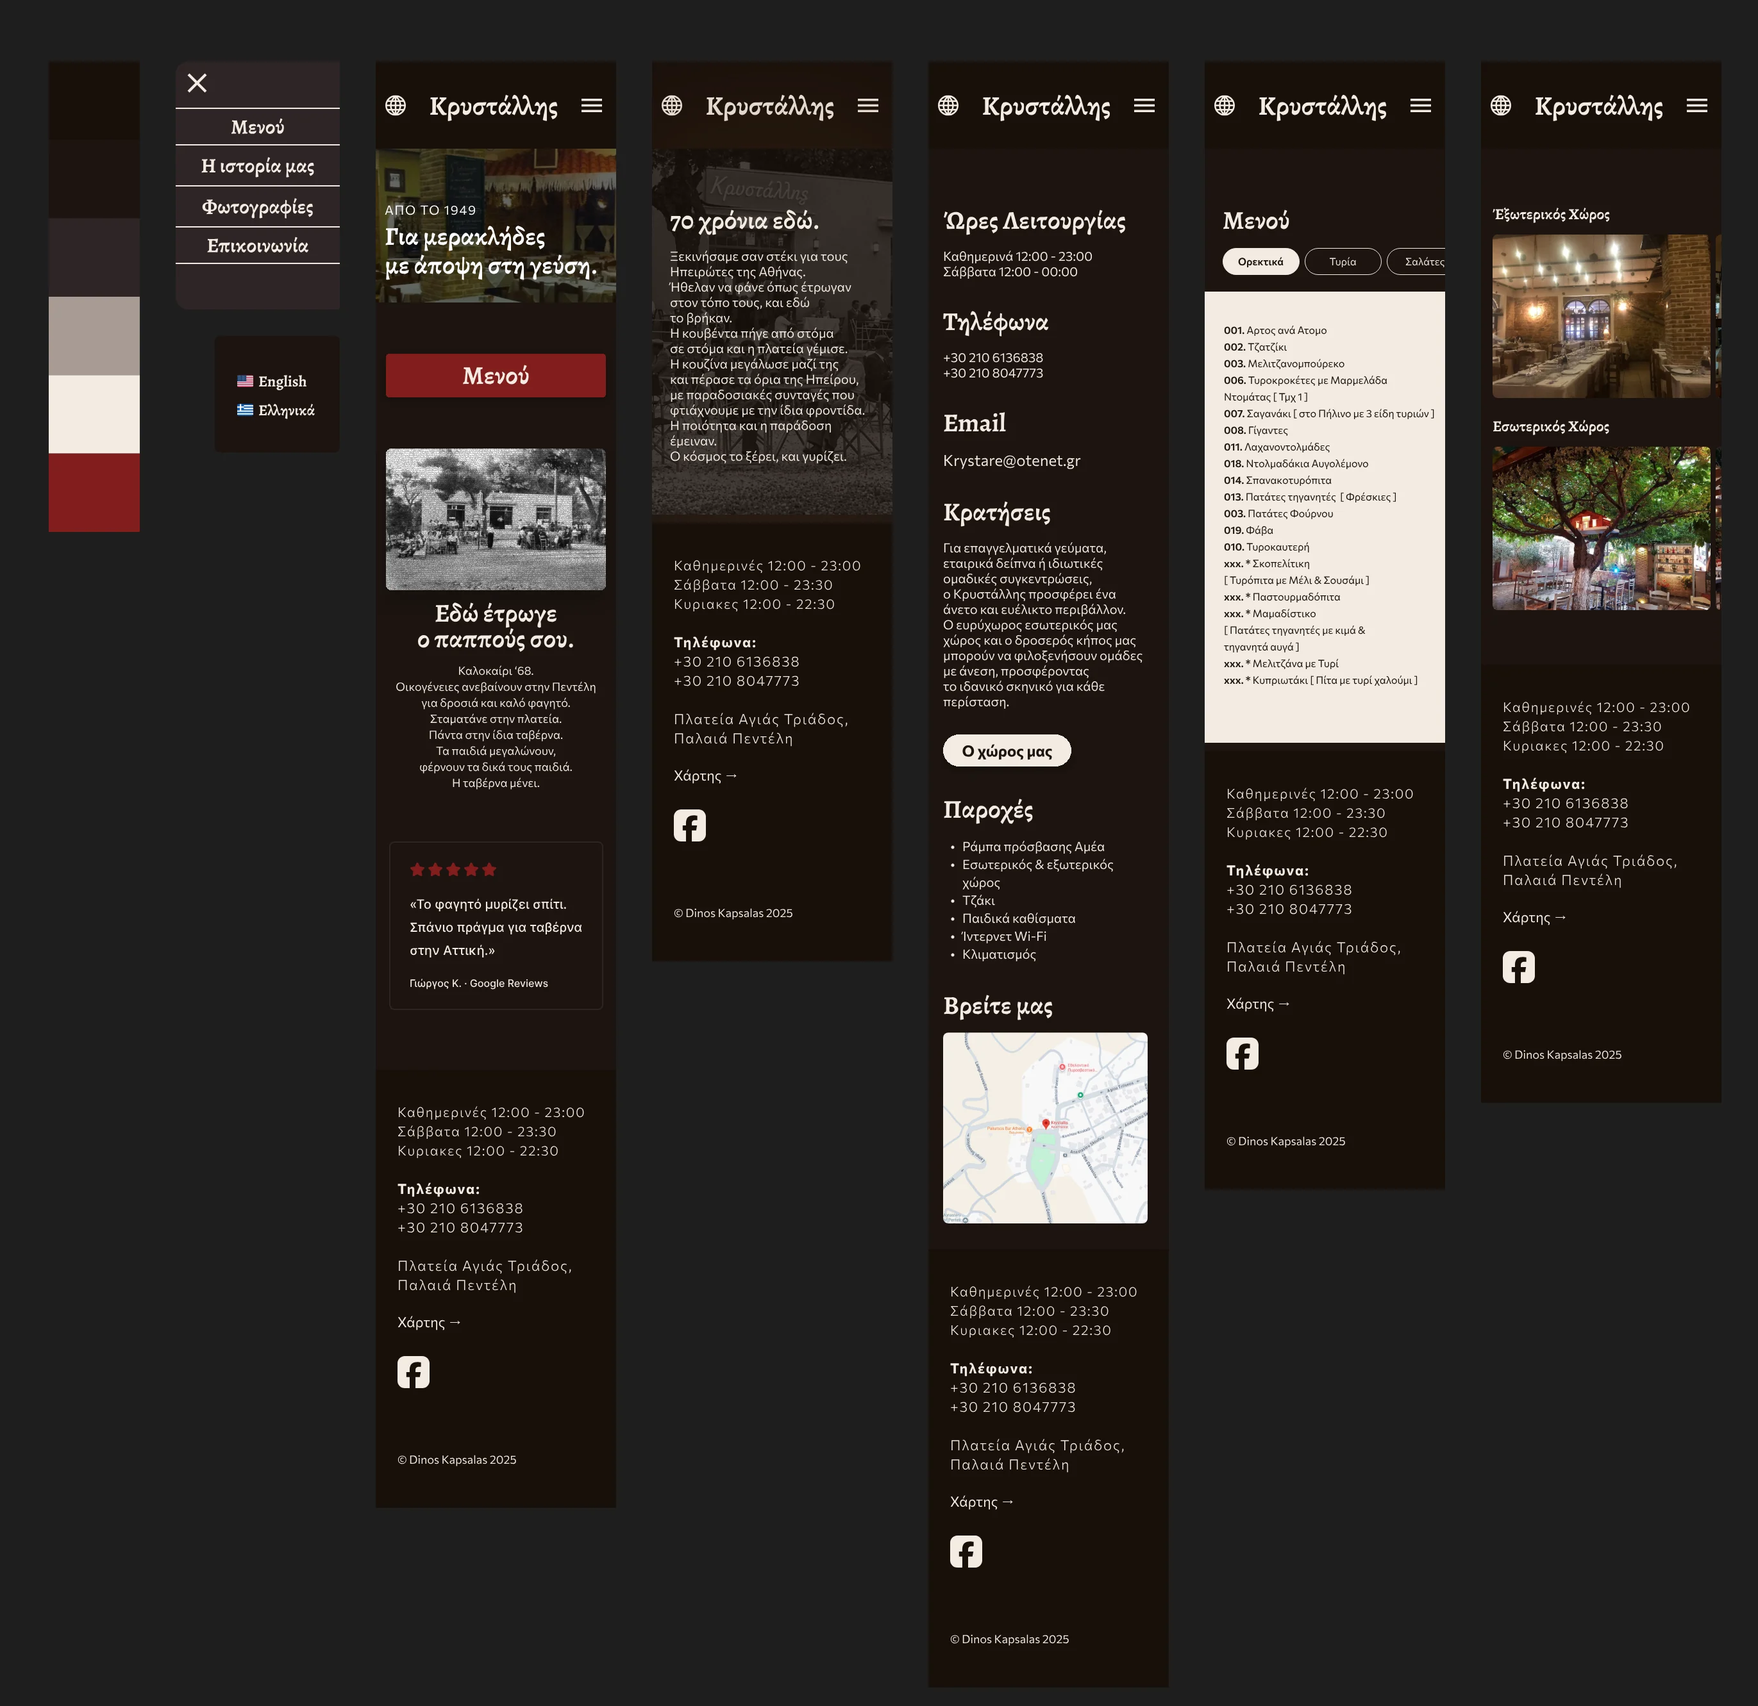
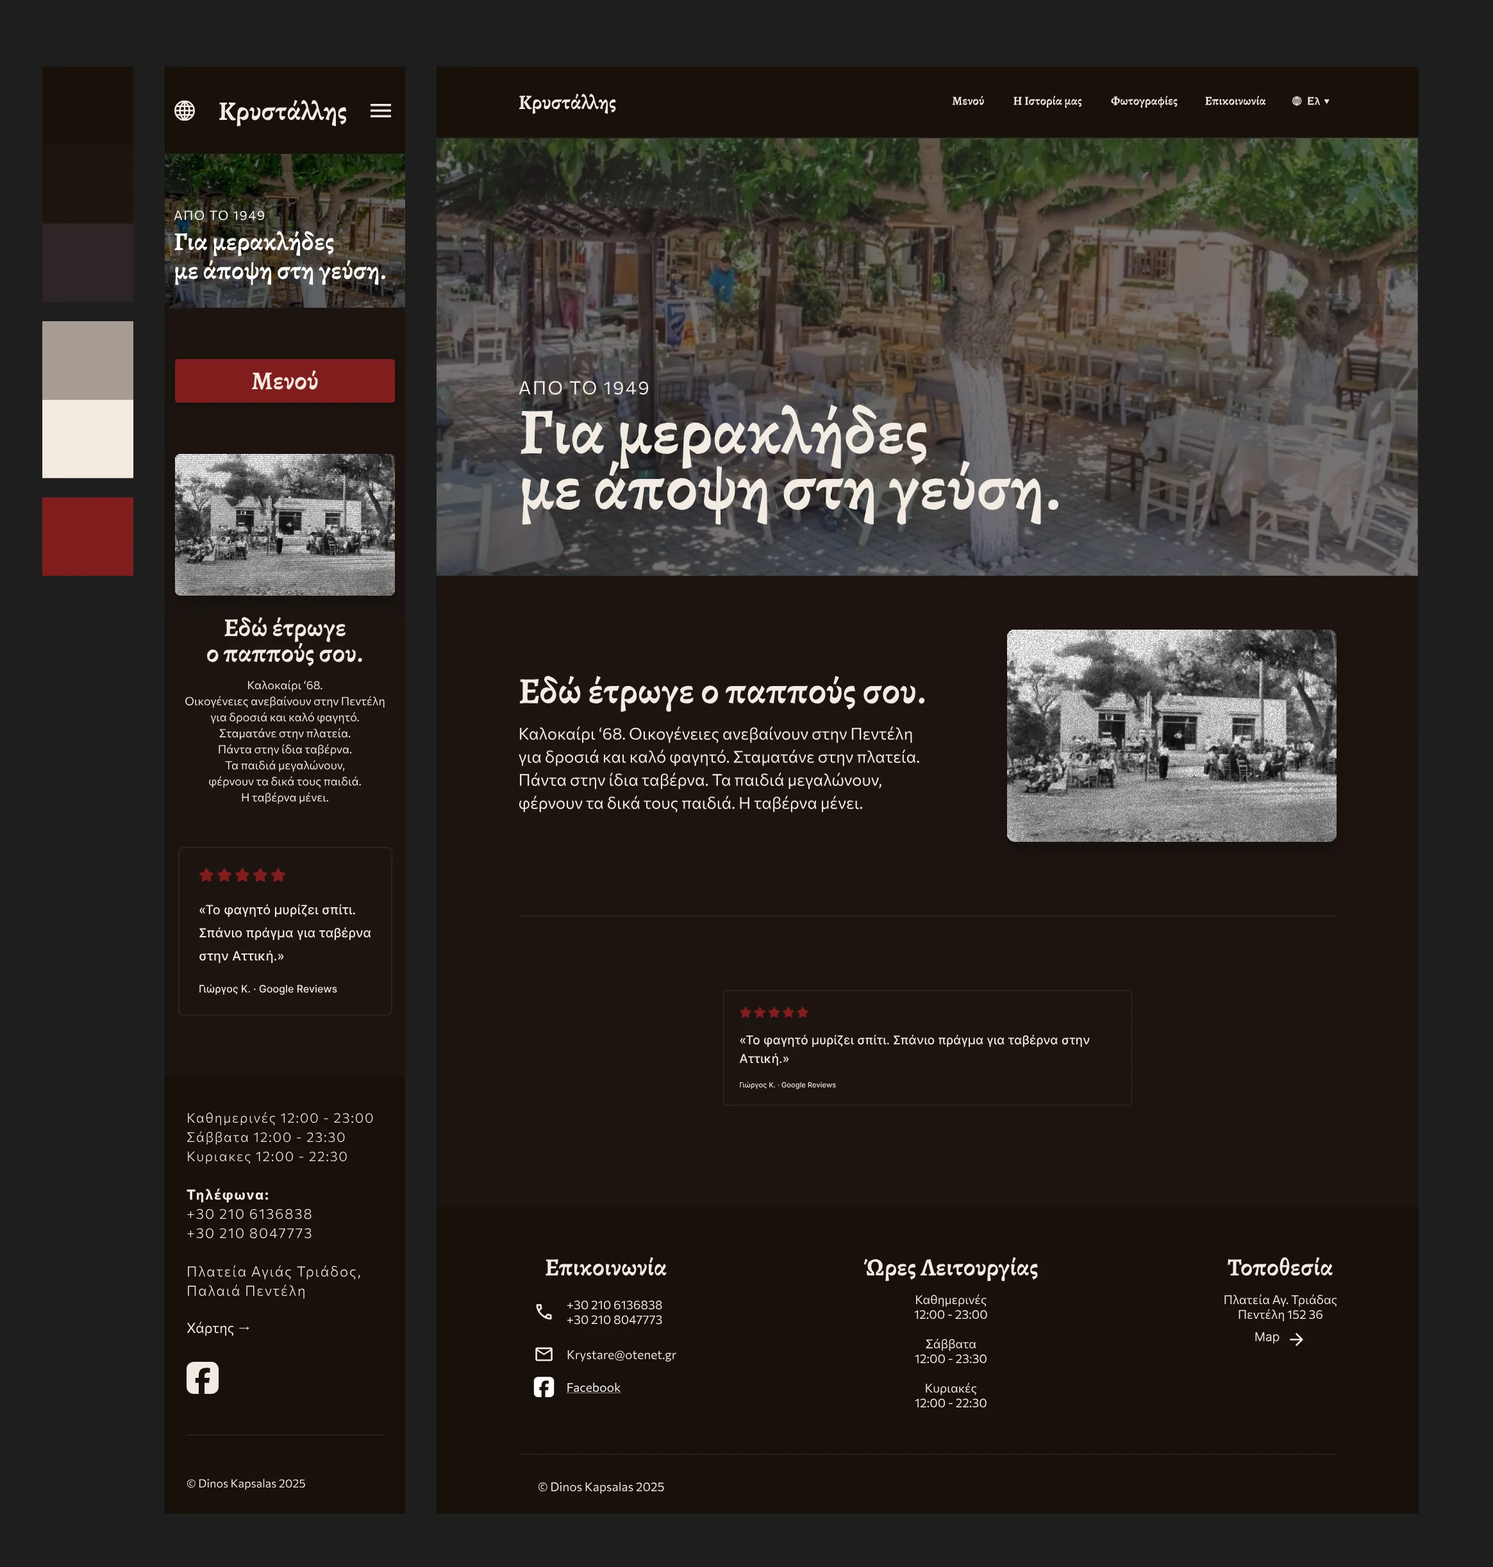
v11.1: new Identity image (palette, mobile and desktop homepage)
Claude-Session: https://claude.ai/code/session_01Um4QMnvbCQBiYrwR49UHki

diff --git a/projects/krystallis/index.html b/projects/krystallis/index.html
@@ -433,7 +433,7 @@ main{background:var(--surface)}
     <section class="cs__block"><div class="cs__text"><div class="cs__lead"><h2>Problem</h2><p class="cs__punch"><span class="s">The tavern kept its tradition.</span><span class="s">The website didn’t.</span></p></div><div class="cs__body"><p>Krystallis has served a traditional menu on Mt. Penteli for 77 years. Its website looked just as old, minus the charm.</p><p>The homepage was a photo gallery: slow to load, and only reachable by scrolling. Hours and contact details were split between the Contact page and a footer on every page, and that footer carried a gallery of six tiny archive thumbnails too. At that size nobody can see the photos, so they only add weight and push the real information out of view.</p><p>On mobile, the menu still wore the template’s default title, “Sidebar”, in English on a Greek site, in colors that failed contrast. The site was Greek only, so anyone who doesn’t read Greek couldn’t follow it or get in touch. And the menu? Nowhere.</p></div></div><figure class="cs__fig"><div class="cs__shot cs__scroll" tabindex="0" role="region" aria-label="Old and new screens, scroll sideways"><img class="w-old" src="01.webp" width="1600" height="844" alt="Old and new mobile site side by side"></div><p class="cs__hint">Swipe sideways to see all screens →</p></figure></section>
     <section class="cs__block"><div class="cs__text"><div class="cs__lead"><h2>Solution</h2><p class="cs__punch"><span class="s">Four pages.</span><span class="s">Everything else a scroll away.</span></p></div><div class="cs__body"><p>The site now has four pages: Menu, Our story, Gallery and Contact. The gallery got a page of its own, where photos can be big and don’t slow anything down. Hours, phones, address and map sit in every footer, and Contact holds the full details.</p></div></div><figure class="cs__fig cs__diagram"><div class="cs__scroll" tabindex="0" role="region" aria-label="Diagram, scroll sideways"><svg class="diagram" viewBox="0 0 960 822" role="img" aria-label="Sitemap: homepage with four pages, Menu, Our story, Gallery and Contact, plus a header and footer on every page" font-family="DM Sans,system-ui,sans-serif"><defs><marker id="ah" viewBox="0 0 10 10" refX="9" refY="5" markerWidth="8" markerHeight="8" orient="auto-start-reverse"><path d="M0 0L10 5L0 10z" fill="#253027"/></marker></defs><rect x="20" y="20" width="920" height="52" rx="12" fill="none" stroke="#5a6b5c" stroke-width="1.5" stroke-dasharray="6 5"/><text x="40" y="52" font-size="15" font-weight="700" fill="#253027">On every page: header</text><text x="920" y="52" text-anchor="end" font-size="14" fill="#5a6b5c">Navigation · Greek / English switch</text><rect x="380" y="104" width="200" height="48" rx="24.0" fill="#8DEF86" stroke="none" stroke-width="1.5"/><text x="480.0" y="133.6" text-anchor="middle" font-size="16" font-weight="700" fill="#253027">Homepage</text><rect x="620" y="108" width="200" height="40" rx="10" fill="#ffffff" stroke="#5a6b5c" stroke-width="1.5" stroke-dasharray="5 4"/><text x="720.0" y="132.9" text-anchor="middle" font-size="14" font-weight="500" fill="#253027">Customer review</text><path d="M580 128H620" fill="none" stroke="#253027" stroke-width="1.5" stroke-dasharray="5 4"/><path d="M480 152V184" fill="none" stroke="#253027" stroke-width="1.5"/><path d="M135 184H810" fill="none" stroke="#253027" stroke-width="1.5"/><path d="M135 184V208" fill="none" stroke="#253027" stroke-width="1.5"/><rect x="35" y="208" width="200" height="48" rx="10" fill="#253027" stroke="none" stroke-width="1.5"/><text x="135.0" y="237.6" text-anchor="middle" font-size="16" font-weight="700" fill="#ffffff">Menu</text><path d="M360 184V208" fill="none" stroke="#253027" stroke-width="1.5"/><rect x="260" y="208" width="200" height="48" rx="10" fill="#253027" stroke="none" stroke-width="1.5"/><text x="360.0" y="237.6" text-anchor="middle" font-size="16" font-weight="700" fill="#ffffff">Our story</text><path d="M585 184V208" fill="none" stroke="#253027" stroke-width="1.5"/><rect x="485" y="208" width="200" height="48" rx="10" fill="#253027" stroke="none" stroke-width="1.5"/><text x="585.0" y="237.6" text-anchor="middle" font-size="16" font-weight="700" fill="#ffffff">Gallery</text><path d="M810 184V208" fill="none" stroke="#253027" stroke-width="1.5"/><rect x="710" y="208" width="200" height="48" rx="10" fill="#253027" stroke="none" stroke-width="1.5"/><text x="810.0" y="237.6" text-anchor="middle" font-size="16" font-weight="700" fill="#ffffff">Contact</text><rect x="55" y="280" width="180" height="38" rx="10" fill="#f4f8f4" stroke="#dde6dc" stroke-width="1.5"/><text x="145.0" y="303.9" text-anchor="middle" font-size="14" font-weight="500" fill="#253027">Starters &amp; salads</text><rect x="55" y="330" width="180" height="38" rx="10" fill="#f4f8f4" stroke="#dde6dc" stroke-width="1.5"/><text x="145.0" y="353.9" text-anchor="middle" font-size="14" font-weight="500" fill="#253027">Main dishes</text><rect x="55" y="380" width="180" height="38" rx="10" fill="#f4f8f4" stroke="#dde6dc" stroke-width="1.5"/><text x="145.0" y="403.9" text-anchor="middle" font-size="14" font-weight="500" fill="#253027">Beverages</text><rect x="55" y="430" width="180" height="38" rx="10" fill="#f4f8f4" stroke="#dde6dc" stroke-width="1.5"/><text x="145.0" y="453.9" text-anchor="middle" font-size="14" font-weight="500" fill="#253027">Desserts &amp; fruits</text><path d="M45 256V449" fill="none" stroke="#253027" stroke-width="1.5"/><path d="M45 299H55" fill="none" stroke="#253027" stroke-width="1.5"/><path d="M45 349H55" fill="none" stroke="#253027" stroke-width="1.5"/><path d="M45 399H55" fill="none" stroke="#253027" stroke-width="1.5"/><path d="M45 449H55" fill="none" stroke="#253027" stroke-width="1.5"/><text x="135" y="490" text-anchor="middle" font-size="13" fill="#5a6b5c">Category tabs</text><rect x="505" y="280" width="180" height="38" rx="10" fill="#f4f8f4" stroke="#dde6dc" stroke-width="1.5"/><text x="595.0" y="303.9" text-anchor="middle" font-size="14" font-weight="500" fill="#253027">Exterior</text><rect x="505" y="330" width="180" height="38" rx="10" fill="#f4f8f4" stroke="#dde6dc" stroke-width="1.5"/><text x="595.0" y="353.9" text-anchor="middle" font-size="14" font-weight="500" fill="#253027">Interior</text><path d="M495 256V349" fill="none" stroke="#253027" stroke-width="1.5"/><path d="M495 299H505" fill="none" stroke="#253027" stroke-width="1.5"/><path d="M495 349H505" fill="none" stroke="#253027" stroke-width="1.5"/><rect x="730" y="280" width="180" height="38" rx="10" fill="#f4f8f4" stroke="#dde6dc" stroke-width="1.5"/><text x="820.0" y="303.9" text-anchor="middle" font-size="14" font-weight="500" fill="#253027">Working hours</text><path d="M720 299H730" fill="none" stroke="#253027" stroke-width="1.5"/><rect x="730" y="330" width="180" height="38" rx="10" fill="#f4f8f4" stroke="#dde6dc" stroke-width="1.5"/><text x="820.0" y="353.9" text-anchor="middle" font-size="14" font-weight="500" fill="#253027">Phone numbers</text><path d="M720 349H730" fill="none" stroke="#253027" stroke-width="1.5"/><rect x="730" y="380" width="180" height="38" rx="10" fill="#f4f8f4" stroke="#dde6dc" stroke-width="1.5"/><text x="820.0" y="403.9" text-anchor="middle" font-size="14" font-weight="500" fill="#253027">Email</text><path d="M720 399H730" fill="none" stroke="#253027" stroke-width="1.5"/><rect x="730" y="430" width="180" height="38" rx="10" fill="#f4f8f4" stroke="#dde6dc" stroke-width="1.5"/><text x="820.0" y="453.9" text-anchor="middle" font-size="14" font-weight="500" fill="#253027">Reservations</text><path d="M720 449H730" fill="none" stroke="#253027" stroke-width="1.5"/><rect x="730" y="580" width="180" height="38" rx="10" fill="#f4f8f4" stroke="#dde6dc" stroke-width="1.5"/><text x="820.0" y="603.9" text-anchor="middle" font-size="14" font-weight="500" fill="#253027">Amenities</text><path d="M720 599H730" fill="none" stroke="#253027" stroke-width="1.5"/><rect x="730" y="630" width="180" height="38" rx="10" fill="#f4f8f4" stroke="#dde6dc" stroke-width="1.5"/><text x="820.0" y="653.9" text-anchor="middle" font-size="14" font-weight="500" fill="#253027">Map</text><path d="M720 649H730" fill="none" stroke="#253027" stroke-width="1.5"/><rect x="730" y="680" width="180" height="38" rx="10" fill="#f4f8f4" stroke="#dde6dc" stroke-width="1.5"/><text x="820.0" y="703.9" text-anchor="middle" font-size="14" font-weight="500" fill="#253027">Accessibility</text><path d="M720 699H730" fill="none" stroke="#253027" stroke-width="1.5"/><path d="M720 256V699" fill="none" stroke="#253027" stroke-width="1.5"/><rect x="770" y="480" width="140" height="38" rx="10" fill="#f4f8f4" stroke="#dde6dc" stroke-width="1.5"/><text x="840.0" y="503.55" text-anchor="middle" font-size="13" font-weight="500" fill="#253027">Customers</text><rect x="770" y="530" width="140" height="38" rx="10" fill="#f4f8f4" stroke="#dde6dc" stroke-width="1.5"/><text x="840.0" y="553.55" text-anchor="middle" font-size="13" font-weight="500" fill="#253027">Groups &amp; events</text><path d="M755 468V549" fill="none" stroke="#253027" stroke-width="1.5"/><path d="M755 499H770" fill="none" stroke="#253027" stroke-width="1.5"/><path d="M755 549H770" fill="none" stroke="#253027" stroke-width="1.5"/><rect x="20" y="750" width="920" height="52" rx="12" fill="none" stroke="#5a6b5c" stroke-width="1.5" stroke-dasharray="6 5"/><text x="40" y="782" font-size="15" font-weight="700" fill="#253027">On every page: footer</text><text x="920" y="782" text-anchor="end" font-size="14" fill="#5a6b5c">Hours · Phones · Address · Map · Facebook</text></svg></div><figcaption>Sitemap. Header and footer repeat on every page.<span class="cs__hint">Swipe sideways to see the full diagram →</span></figcaption></figure></section>
     <section class="cs__block"><div class="cs__text"><div class="cs__lead"><h3>Booking &amp; language</h3><p class="cs__punch"><span class="s">One call away.</span><span class="s">In two languages.</span></p></div><div class="cs__body"><p>Booking stays personal, by phone or email, and the path there is short: the numbers sit in every footer, and Contact adds the email and reservation details. Groups and events get their own details there. A Greek/English switch in the header lets visitors who don’t read Greek in, without losing their place.</p></div></div><figure class="cs__fig cs__diagram"><div class="cs__scroll" tabindex="0" role="region" aria-label="Diagram, scroll sideways"><svg class="diagram" viewBox="0 0 960 486" role="img" aria-label="User flow: from any page, open the Menu and browse by category; open Contact, then Reservations, choose customers or groups and events, then call or email to book; or use the language switch to stay on the same page in Greek or English" font-family="DM Sans,system-ui,sans-serif"><defs><marker id="ah" viewBox="0 0 10 10" refX="9" refY="5" markerWidth="8" markerHeight="8" orient="auto-start-reverse"><path d="M0 0L10 5L0 10z" fill="#253027"/></marker></defs><rect x="380" y="20" width="200" height="46" rx="23.0" fill="#8DEF86" stroke="none" stroke-width="1.5"/><text x="480.0" y="48.6" text-anchor="middle" font-size="16" font-weight="700" fill="#253027">Any page</text><path d="M480 66V92" fill="none" stroke="#253027" stroke-width="1.5"/><path d="M135 92H825" fill="none" stroke="#253027" stroke-width="1.5"/><path d="M135 92V118" fill="none" stroke="#253027" stroke-width="1.5" marker-end="url(#ah)"/><path d="M480 92V118" fill="none" stroke="#253027" stroke-width="1.5" marker-end="url(#ah)"/><path d="M825 92V118" fill="none" stroke="#253027" stroke-width="1.5" marker-end="url(#ah)"/><rect x="35" y="120" width="200" height="46" rx="10" fill="#253027" stroke="none" stroke-width="1.5"/><text x="135.0" y="148.6" text-anchor="middle" font-size="16" font-weight="700" fill="#ffffff">Menu</text><rect x="380" y="120" width="200" height="46" rx="10" fill="#253027" stroke="none" stroke-width="1.5"/><text x="480.0" y="148.6" text-anchor="middle" font-size="16" font-weight="700" fill="#ffffff">Contact</text><rect x="725" y="120" width="200" height="46" rx="10" fill="#253027" stroke="none" stroke-width="1.5"/><text x="825.0" y="148.6" text-anchor="middle" font-size="16" font-weight="700" fill="#ffffff">Language switch</text><path d="M135 166V196" fill="none" stroke="#253027" stroke-width="1.5" marker-end="url(#ah)"/><rect x="45" y="198" width="180" height="40" rx="10" fill="#f4f8f4" stroke="#dde6dc" stroke-width="1.5"/><text x="135.0" y="222.9" text-anchor="middle" font-size="14" font-weight="500" fill="#253027">Pick a category tab</text><path d="M135 238V268" fill="none" stroke="#253027" stroke-width="1.5" marker-end="url(#ah)"/><rect x="45" y="270" width="180" height="44" rx="22.0" fill="#253027" stroke="none" stroke-width="1.5"/><text x="135.0" y="297.25" text-anchor="middle" font-size="15" font-weight="700" fill="#8DEF86">Browse the dishes</text><path d="M480 166V196" fill="none" stroke="#253027" stroke-width="1.5" marker-end="url(#ah)"/><rect x="390" y="198" width="180" height="40" rx="10" fill="#f4f8f4" stroke="#dde6dc" stroke-width="1.5"/><text x="480.0" y="222.9" text-anchor="middle" font-size="14" font-weight="500" fill="#253027">Reservations</text><path d="M480 238V264" fill="none" stroke="#253027" stroke-width="1.5" marker-end="url(#ah)"/><path d="M480 264L514 298L480 332L446 298Z" fill="#ffffff" stroke="#253027" stroke-width="1.5"/><text x="480" y="303" text-anchor="middle" font-size="13" font-weight="700" fill="#253027">Who?</text><path d="M446 298H385V330" fill="none" stroke="#253027" stroke-width="1.5" marker-end="url(#ah)"/><path d="M514 298H575V330" fill="none" stroke="#253027" stroke-width="1.5" marker-end="url(#ah)"/><rect x="300" y="332" width="170" height="40" rx="10" fill="#f4f8f4" stroke="#dde6dc" stroke-width="1.5"/><text x="385.0" y="356.9" text-anchor="middle" font-size="14" font-weight="500" fill="#253027">Customers</text><rect x="490" y="332" width="170" height="40" rx="10" fill="#f4f8f4" stroke="#dde6dc" stroke-width="1.5"/><text x="575.0" y="356.9" text-anchor="middle" font-size="14" font-weight="500" fill="#253027">Groups &amp; events</text><path d="M385 372V398H480" fill="none" stroke="#253027" stroke-width="1.5"/><path d="M575 372V398H480" fill="none" stroke="#253027" stroke-width="1.5"/><path d="M480 398V420" fill="none" stroke="#253027" stroke-width="1.5" marker-end="url(#ah)"/><rect x="380" y="422" width="200" height="44" rx="22.0" fill="#253027" stroke="none" stroke-width="1.5"/><text x="480.0" y="449.25" text-anchor="middle" font-size="15" font-weight="700" fill="#8DEF86">Call or email to book</text><path d="M825 166V196" fill="none" stroke="#253027" stroke-width="1.5" marker-end="url(#ah)"/><path d="M825 196L859 230L825 264L791 230Z" fill="#ffffff" stroke="#253027" stroke-width="1.5"/><text x="825" y="235" text-anchor="middle" font-size="13" font-weight="700" fill="#253027">GR/EN</text><path d="M791 230H760V262" fill="none" stroke="#253027" stroke-width="1.5" marker-end="url(#ah)"/><path d="M859 230H890V262" fill="none" stroke="#253027" stroke-width="1.5" marker-end="url(#ah)"/><rect x="720" y="264" width="80" height="38" rx="10" fill="#f4f8f4" stroke="#dde6dc" stroke-width="1.5"/><text x="760.0" y="287.9" text-anchor="middle" font-size="14" font-weight="500" fill="#253027">Greek</text><rect x="850" y="264" width="80" height="38" rx="10" fill="#f4f8f4" stroke="#dde6dc" stroke-width="1.5"/><text x="890.0" y="287.9" text-anchor="middle" font-size="14" font-weight="500" fill="#253027">English</text><path d="M760 302V326H825" fill="none" stroke="#253027" stroke-width="1.5"/><path d="M890 302V326H825" fill="none" stroke="#253027" stroke-width="1.5"/><path d="M825 326V346" fill="none" stroke="#253027" stroke-width="1.5" marker-end="url(#ah)"/><rect x="725" y="348" width="200" height="44" rx="22.0" fill="#253027" stroke="none" stroke-width="1.5"/><text x="825.0" y="374.9" text-anchor="middle" font-size="14" font-weight="700" fill="#8DEF86">Same page, new language</text></svg></div><figcaption>Main user flows: menu, booking, language.<span class="cs__hint">Swipe sideways to see the full diagram →</span></figcaption></figure></section>
-    <section class="cs__block"><div class="cs__text"><div class="cs__lead"><h3>Identity</h3><p class="cs__punch"><span class="s">Dressed like the tavern.</span></p></div><div class="cs__body"><p>The colors come from the warmth of the tavern’s interior: wood, stone, and the glow of its fireplace.</p></div></div><figure class="cs__fig"><div class="cs__shot cs__scroll" tabindex="0" role="region" aria-label="Mobile screens, scroll sideways"><img class="w-screens" src="03.webp" width="2742" height="2662" alt="Brand palette and mobile screens: menu, homepage, our story, contact, menu and gallery" loading="lazy" decoding="async"></div><p class="cs__hint">Swipe sideways to see all screens →</p></figure></section>
+    <section class="cs__block"><div class="cs__text"><div class="cs__lead"><h3>Identity</h3><p class="cs__punch"><span class="s">Dressed like the tavern.</span></p></div><div class="cs__body"><p>The colors come from the warmth of the tavern’s interior: wood, stone, and the glow of its fireplace.</p></div></div><figure class="cs__fig"><div class="cs__shot cs__scroll" tabindex="0" role="region" aria-label="Mobile screens, scroll sideways"><img class="w-screens" src="03.webp" width="2329" height="2444" alt="Brand palette with the homepage on mobile and desktop" loading="lazy" decoding="async"></div><p class="cs__hint">Swipe sideways to see all screens →</p></figure></section>
     <section class="cs__block"><div class="cs__text"><div class="cs__lead"><h2>Result</h2><p class="cs__punch"><span class="s">The menu is finally where a menu should be.</span></p></div><div class="cs__body"><p>Mobile first, with everything in view right away. Four tidy pages, each with one job, in two languages. Tradition on the plate, clarity on the screen.</p></div></div><figure class="cs__shot cs__fig"><img src="02-poster.webp" width="1600" height="900" alt="The redesigned Krystallis homepage on a laptop" loading="lazy" decoding="async"></figure></section>
   </div>
 <nav class="wrap cs__pager" aria-label="More case studies">
